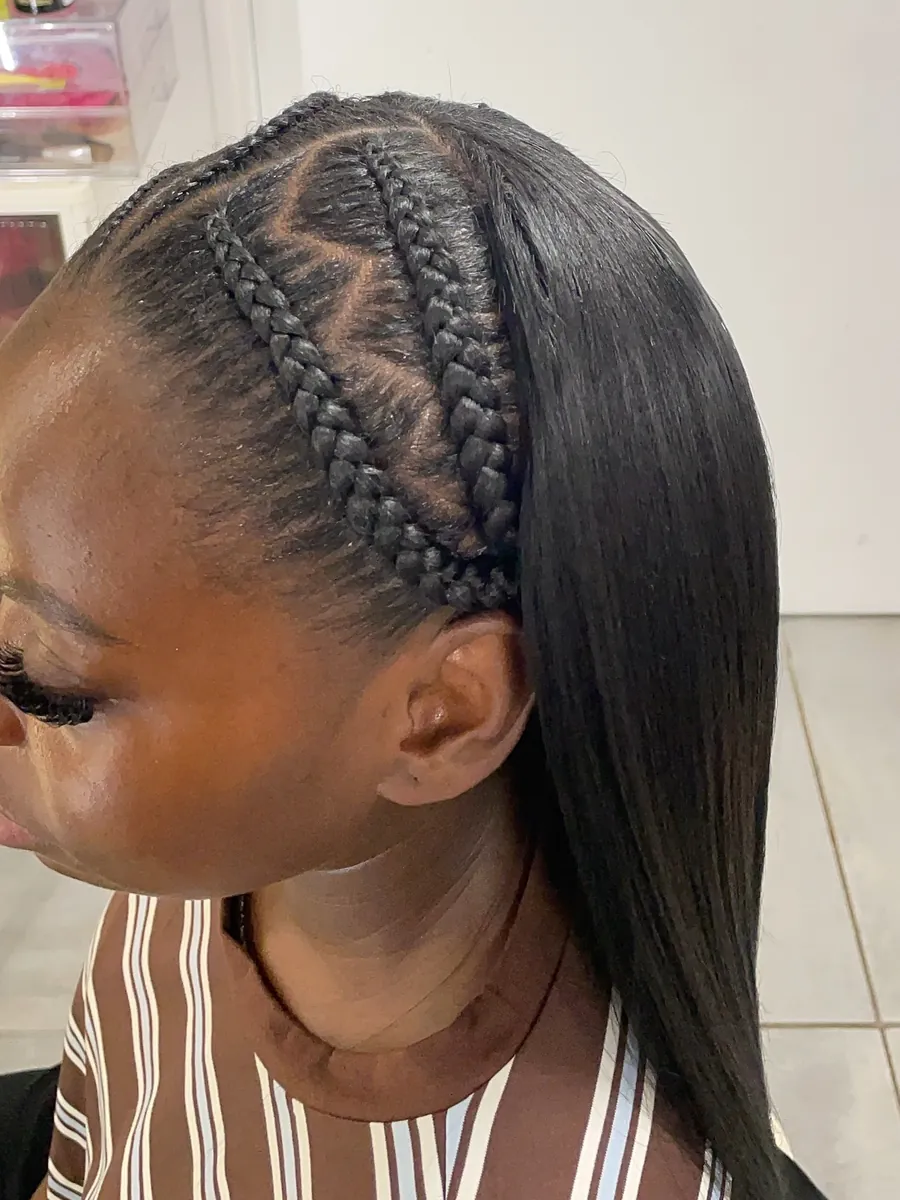
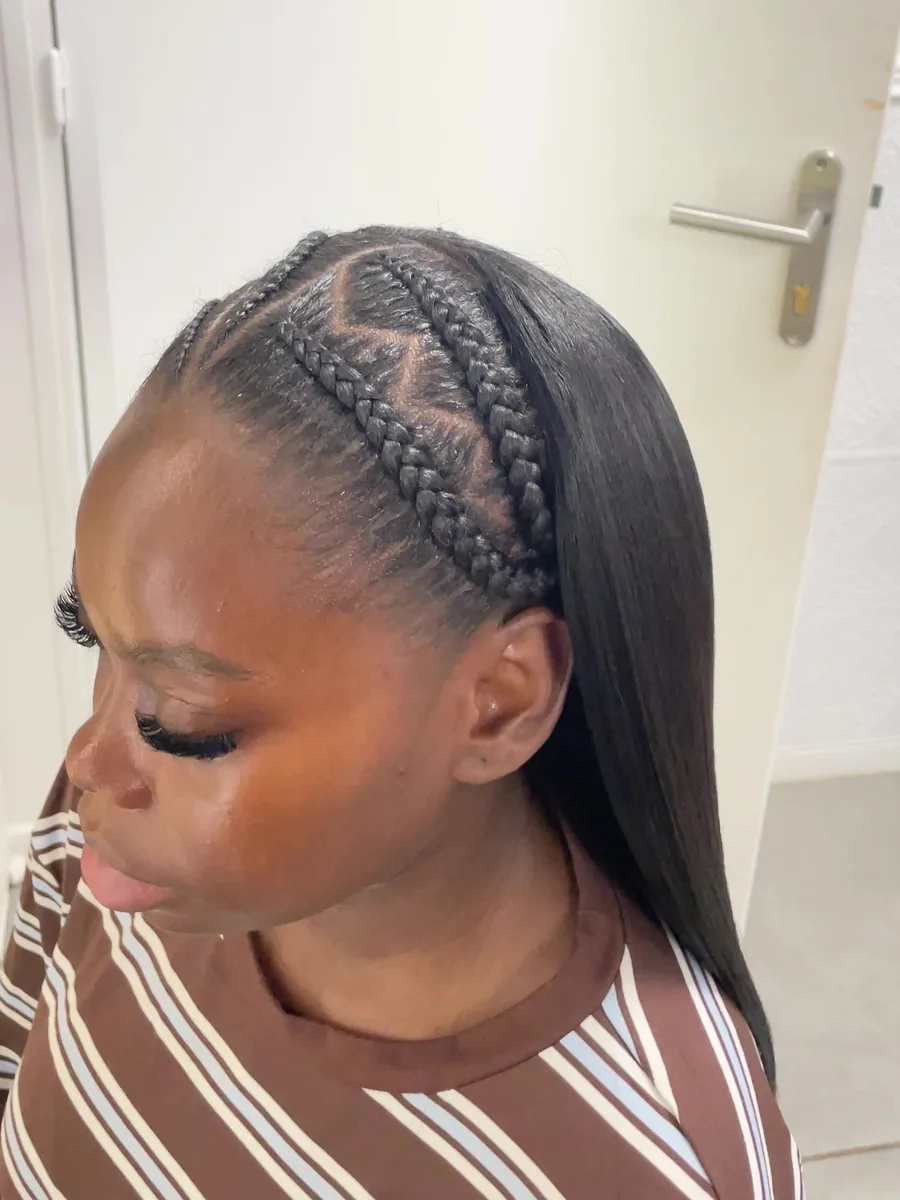
Galerie : 5 nouvelles photos, prestation Ponybraid (prix à confirmer)
Claude-Session: https://claude.ai/code/session_01AEd1QR9aJodbum6MBKBPQS

diff --git a/CLAUDE.md b/CLAUDE.md
@@ -91,7 +91,7 @@ Les tarifs bougent : les centraliser dans un seul fichier de données (ex. `data
 
 ## État du projet (au 10/10/2026)
 - Dépôt GitHub : **mouvementvisible-cmd/glossy-ponytail** (anciennement upflowcrea-create), relié à Netlify qui publie la branche `main`.
-- Photos : 13 réalisations dans `images/realisations/` (WebP 900×1200, recadrées) + photo d'accueil `images/hero.webp` (Ponylace au soleil). Ordre de la galerie validé, on garde toutes les variantes.
+- Photos : 17 réalisations dans `images/realisations/` (WebP 900×1200, recadrées) + photo d'accueil `images/hero.webp` (Ponylace au soleil). Ordre de la galerie validé, on garde toutes les variantes.
 - Règles photos : jamais Noëlla ni d'autres personnes en reflet dans les miroirs ; recadrer télé, produits, enseignes (ELANYA).
 - Descriptions des prestations reprises de la page iara (`comprend` / `aSavoir` dans `data/prestations.json`).
 - Questionnaire Tally de configuration Acuity : formulaire 2EMoaj (non publié).
@@ -101,6 +101,7 @@ Les tarifs bougent : les centraliser dans un seul fichier de données (ex. `data
 ## En suspens
 - [ ] **Au lancement : retirer la balise `<meta name="robots" content="noindex, nofollow">` de `index.html`** (ajoutée le 10/10/2026 pour que Google n'indexe pas le site tant qu'il n'est pas terminé). Au même moment, remplacer le domaine `[nom-de-domaine]` (canonical, og:url) et vérifier `robots.txt`.
 - Photo Tissage + lace : la cliente a indiqué qu'une photo de perruque suffit (même rendu, technique différente). On réutilise la photo Wig install (`wig-install.webp`), visible donc deux fois dans la galerie. Doublons Ponytail/Half pony : variantes gardées volontairement.
+- [ ] Prestation Ponybraid : prix, durée, catégorie et contenu à confirmer (ajoutée le 10/10/2026 dans la catégorie Ponytails)
 - [ ] Prestation « Layers » ajoutée (catégorie provisoire Ponylace & wigs) : prix, durée, catégorie et contenu à confirmer
 - [ ] « Weeding sleek » : confirmer s'il faut écrire « Wedding sleek » (prestation mariage à domicile)
 - [ ] Tissage ouvert : vérifier que la photo n'est pas plutôt un tissage + lace
